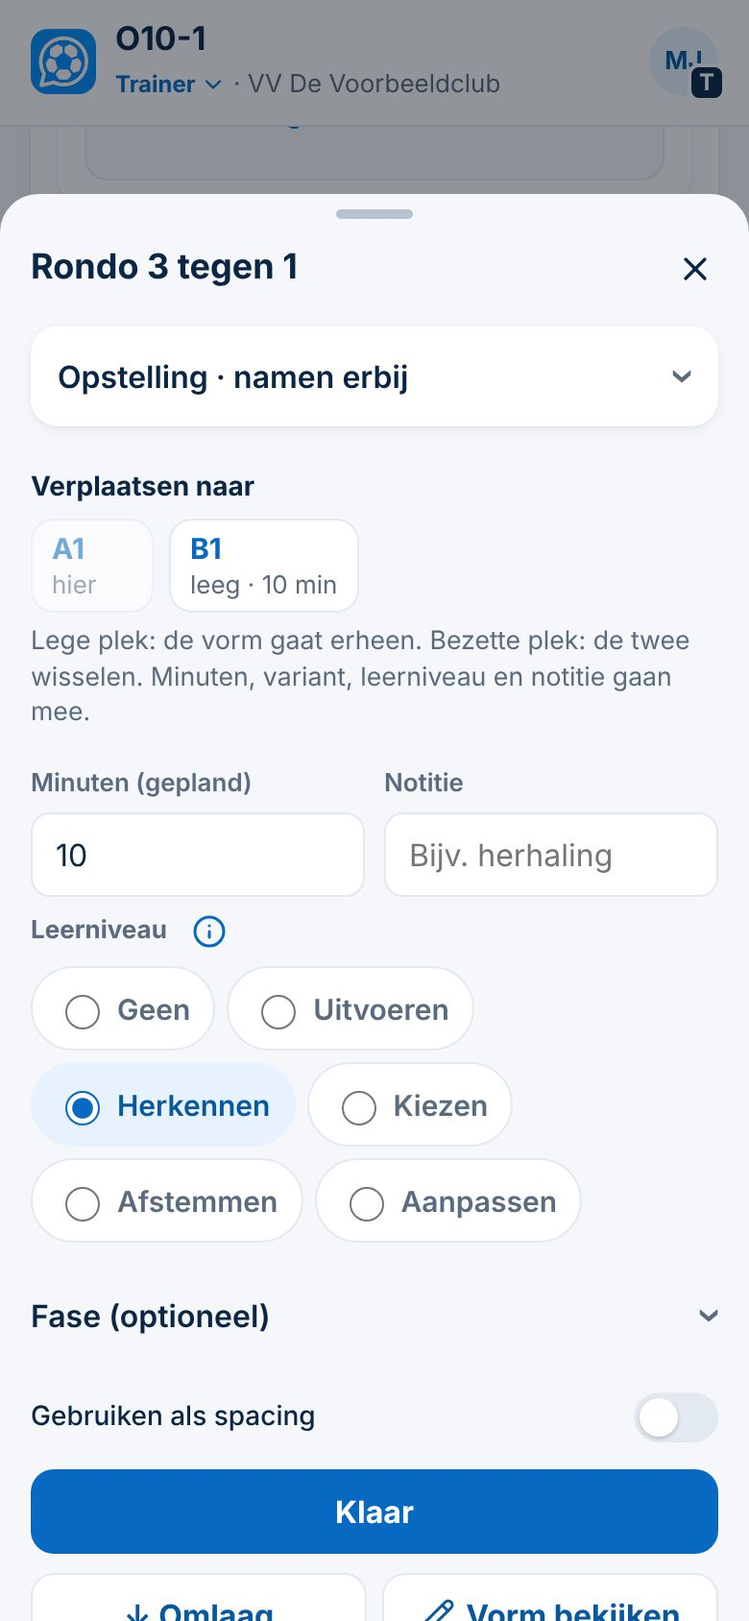
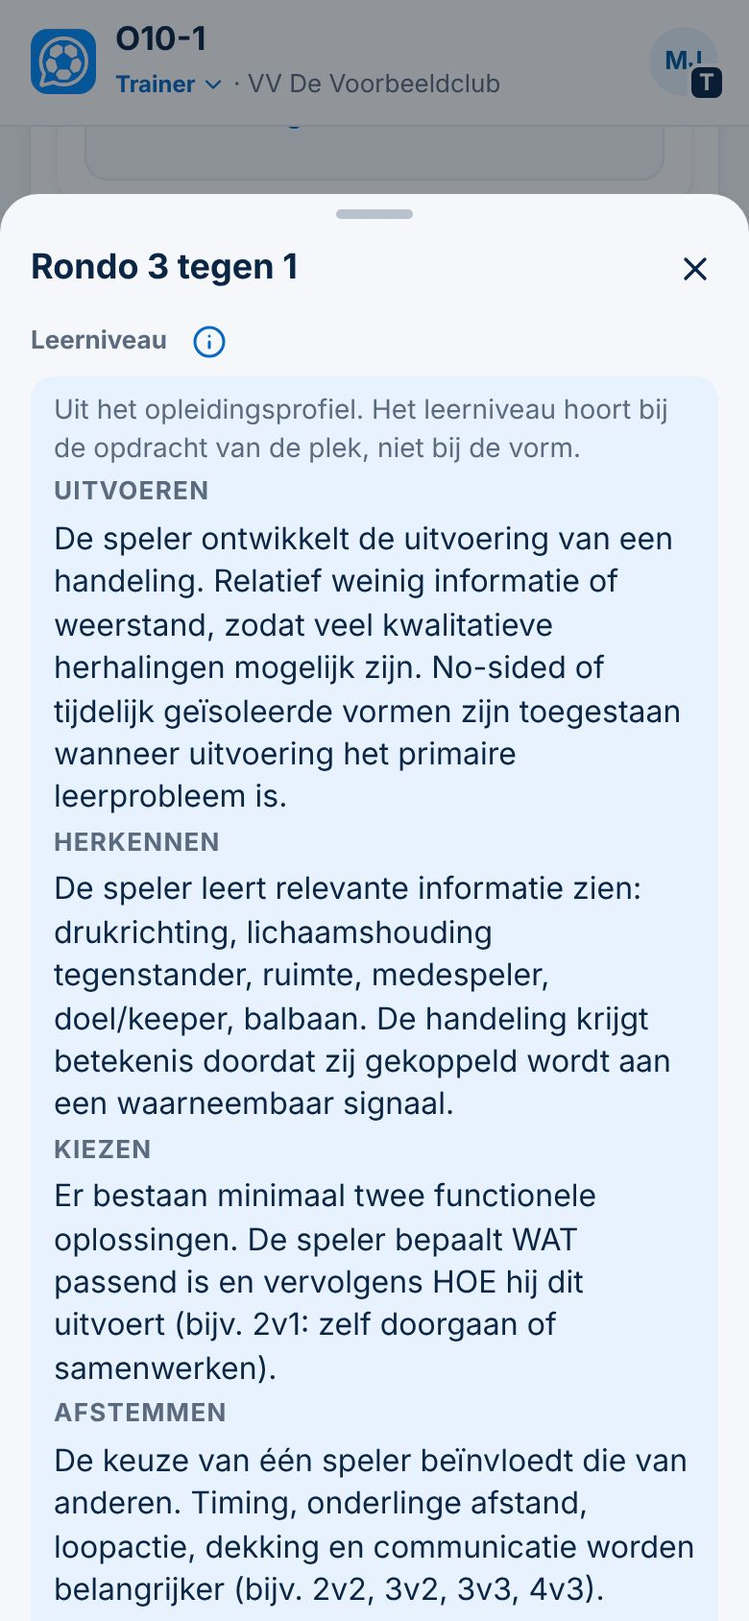
Besluit NNN: uitleg via ⓘ uit het opleidingsprofiel (I3)
Claude-Session: https://claude.ai/code/session_017jGF8mDYfDuBQb5FDVe2fK

Changed region(s): [[0.0308, 0.1848, 0.9846, 1.0], [0.8308, 0.3081, 0.8923, 0.3389]]

diff --git a/public/app/periodisering.js b/public/app/periodisering.js
@@ -97,22 +97,29 @@
     const r = (n, x) => (x ? `<dt>${n}</dt><dd>${esc(x)}</dd>` : '');
     CC.sheet('Oorspronkelijke planning', `<p class="zacht klein">Zoals geladen uit ${esc(o.bron || 'de periodisering')}. Bewaard op ${esc(D.kort(o.bewaard))}, toen je deze training voor het eerst aanpaste. Alleen ter informatie.</p>
       <dl class="antwoorden">${r('Titel', o.thema)}${r('Voetbalprobleem', pr ? `${pr.id.slice(3)} · ${pr.naam}` : m.probleemTekst)}${r('Dagthema', m.hoofdthema)}${r('Gereedschap A', T().ldNaam(S, (o.blokDoel || {}).A))}${r('Gereedschap B', T().ldNaam(S, (o.blokDoel || {}).B))}${r('Leerniveau', nv(S, m.niveaus))}${r('Leerroute', m.route)}${r('Gewenst gedrag', m.gedrag)}</dl>`); });
-  // Voorbeeld I3: ⓘ = de uitleg die al in het opleidingsprofiel staat (geen nieuwe invoer, geen tekst die al in beeld staat).
-  // Alleen als het profiel die uitleg heeft; anders geen knop.
+  // Besluit NNN (I3): ⓘ = de uitleg die al in het opleidingsprofiel staat (geen nieuwe invoer, geen kopie). Zonder tekst geen knop.
+  // Op een pagina opent de ⓘ een venster; in een venster (de plek) klapt de uitleg ter plekke open, zodat niets verloren gaat.
   const leerlijn = (S, id) => ((T().ond(S, 'leerlijnen') || {}).items || []).find((x) => x.id === id) || null;
-  const uitlegKnop = (S, soort, id, naam) => { const heeft = soort === 'niveaus' ? T().niveaus(S).some((x) => x.omschrijving) : soort === 'gs' ? !!(leerlijn(S, id) || {}).omschrijving : !!(probleem(S, id) || {}).definitie;
-    return heeft ? `<button type="button" class="icoonknop tr-uitleg" data-act="trUitleg" data-s="${soort}" data-id="${esc(id || '')}" aria-label="Uitleg: ${esc(naam)}">${icon('info')}</button>` : ''; };
-  CC.trUitlegKnop = uitlegKnop;
-  const lijst = (l) => (l || []).length ? `<ul>${l.map((x) => `<li>${esc(x)}</li>`).join('')}</ul>` : '';
-  CC.on('trUitleg', (el) => { const S = CC.S(); const s0 = el.dataset.s, id = el.dataset.id;
-    if (s0 === 'niveaus') { const l = T().niveaus(S); return CC.sheet('Leerniveaus', `<p class="zacht klein">Uit het opleidingsprofiel. Het leerniveau hoort bij de opdracht van de plek, niet bij de vorm.</p>${l.map((x) => `${h.sectie(x.naam)}<p>${esc(x.omschrijving || '')}</p>`).join('')}`); }
-    if (s0 === 'gs') { const g = leerlijn(S, id); if (!g) return; return CC.sheet(g.naam, `<p class="zacht klein">Gereedschap uit het opleidingsprofiel</p><p>${esc(g.omschrijving || '')}</p>
+  const heeftUitleg = (S, soort, id) => (soort === 'niveaus' ? T().niveaus(S).some((x) => x.omschrijving) : soort === 'gs' ? !!(leerlijn(S, id) || {}).omschrijving : !!(probleem(S, id) || {}).definitie);
+  const lijst = (l) => ((l || []).length ? `<ul>${l.map((x) => `<li>${esc(x)}</li>`).join('')}</ul>` : '');
+  const uitleg = (S, soort, id) => {
+    if (soort === 'niveaus') return { titel: 'Leerniveaus', html: `<p class="zacht klein">Uit het opleidingsprofiel. Het leerniveau hoort bij de opdracht van de plek, niet bij de vorm.</p>${T().niveaus(S).filter((x) => x.omschrijving).map((x) => `${h.sectie(esc(x.naam))}<p>${esc(x.omschrijving)}</p>`).join('')}` };
+    if (soort === 'gs') { const g = leerlijn(S, id); if (!g) return null;
+      return { titel: g.naam, html: `<p class="zacht klein">Gereedschap uit het opleidingsprofiel</p><p>${esc(g.omschrijving || '')}</p>
       ${g.spelersvraag ? `${h.sectie('Vraag voor de speler')}<p><b>${esc(g.spelersvraag)}</b></p>` : ''}${g.principe ? `${h.sectie('Principe')}<p>${esc(g.principe)}</p>` : ''}
-      ${(g.vaardigheden || []).length ? `${h.sectie('Vaardigheden')}<p>${esc(g.vaardigheden.map((v) => v.naam).join(' · '))}</p>` : ''}${g.technischeOnderbouw ? `<details class="uitklap"><summary>Technische onderbouwing</summary><p>${esc(g.technischeOnderbouw)}</p></details>` : ''}`); }
-    const pr = probleem(S, id); if (!pr) return;
-    CC.sheet(pr.naam, `<p class="zacht klein">Voetbalprobleem ${esc(pr.id.slice(3))} uit het opleidingsprofiel</p><p>${esc(pr.definitie || '')}</p>
+      ${(g.vaardigheden || []).length ? `${h.sectie('Vaardigheden')}<p>${esc(g.vaardigheden.map((v) => v.naam).join(' · '))}</p>` : ''}${g.technischeOnderbouw ? `<details class="uitklap"><summary>Technische onderbouwing</summary><p>${esc(g.technischeOnderbouw)}</p></details>` : ''}` }; }
+    const pr = probleem(S, id); if (!pr) return null;
+    const meer = (pr.keuzeWat || []).length || (pr.keuzeHoe || []).length || (pr.oplossingen || []).length || pr.complexiteit;
+    return { titel: pr.naam, html: `<p class="zacht klein">Voetbalprobleem ${esc(pr.id.slice(3))} uit het opleidingsprofiel</p><p>${esc(pr.definitie || '')}</p>
       ${pr.centraleVraag ? `${h.sectie('Centrale vraag')}<p><b>${esc(pr.centraleVraag)}</b></p>` : ''}${(pr.waarnemen || []).length ? `${h.sectie('Wat de speler waarneemt')}${lijst(pr.waarnemen)}` : ''}
-      ${(pr.keuzeWat || []).length || (pr.oplossingen || []).length || pr.complexiteit ? `<details class="uitklap"><summary>Keuzes, oplossingen en opbouw</summary>${(pr.keuzeWat || []).length ? `${h.sectie('Wat kan de speler kiezen?')}${lijst(pr.keuzeWat)}` : ''}${(pr.keuzeHoe || []).length ? `${h.sectie('Hoe voert hij het uit?')}${lijst(pr.keuzeHoe)}` : ''}${(pr.oplossingen || []).length ? `${h.sectie('Oplossingen')}${lijst(pr.oplossingen)}` : ''}${pr.complexiteit ? `${h.sectie('Opbouw')}<p>${esc(pr.complexiteit)}</p>` : ''}</details>` : ''}`); });
+      ${meer ? `<details class="uitklap"><summary>Keuzes, oplossingen en opbouw</summary>${(pr.keuzeWat || []).length ? `${h.sectie('Wat kan de speler kiezen?')}${lijst(pr.keuzeWat)}` : ''}${(pr.keuzeHoe || []).length ? `${h.sectie('Hoe voert hij het uit?')}${lijst(pr.keuzeHoe)}` : ''}${(pr.oplossingen || []).length ? `${h.sectie('Oplossingen')}${lijst(pr.oplossingen)}` : ''}${pr.complexiteit ? `${h.sectie('Opbouw')}<p>${esc(pr.complexiteit)}</p>` : ''}</details>` : ''}` }; };
+  const uitlegKnop = (S, soort, id, naam, hier) => (heeftUitleg(S, soort, id)
+    ? `<button type="button" class="icoonknop tr-uitleg" data-act="${hier ? 'trUitlegHier' : 'trUitleg'}" data-s="${soort}" data-id="${esc(id || '')}" aria-label="Uitleg: ${esc(naam)}"${hier ? ' aria-expanded="false"' : ''}>${icon('info')}</button>` : '');
+  CC.trUitlegKnop = uitlegKnop;
+  // Ter plekke: het blok staat direct na de knop (in de legend) als eerste element na de legend
+  CC.trUitlegHierBlok = (S, soort, id) => (heeftUitleg(S, soort, id) ? `<div class="tr-uitleg-hier" hidden>${(uitleg(S, soort, id) || {}).html || ''}</div>` : '');
+  CC.on('trUitleg', (el) => { const u = uitleg(CC.S(), el.dataset.s, el.dataset.id); if (u) CC.sheet(u.titel, u.html); });
+  CC.on('trUitlegHier', (el) => { const f = el.closest('fieldset'); const b = f && f.querySelector('.tr-uitleg-hier'); if (!b) return; b.hidden = !b.hidden; el.setAttribute('aria-expanded', String(!b.hidden)); });
   CC.trMethodiek = (S, p, a, tel, zonderMee) => { if (!p || p.week) return ''; const pa = actief(S); if (pa) CC.trBorgOrigineel(S);
     const m = eigenM(p), wv = weekVoorstelVan(S, p, a), w = a.datum ? weekPlan(S, p.teamId || a.teamId, a.datum) : null; const iv = inVormen(S, p);
     const wbox = (x) => (x ? `<div class="tr-wv">${lab('week')}<span class="tr-wvt">${x}</span></div>` : '');

diff --git a/tests/uitleg.spec.js b/tests/uitleg.spec.js
@@ -1,0 +1,80 @@
+// ClubComm — Besluit NNN (I3): ⓘ opent de uitleg uit het opleidingsprofiel (voetbalprobleem, gereedschap, leerniveaus).
+const { test, expect } = require('@playwright/test');
+const fs = require('fs');
+const { volgFouten, controleer } = require('./hulp');
+const PROFIEL = JSON.parse(fs.readFileSync('supabase/profielen/dcg.json', 'utf8'));
+
+// Demo (verzonnen namen) met het DCG-profiel als voorbeeldprofiel; wijzig(profiel) past het profiel aan of haalt het weg
+const opzet = async (page, wijzig) => {
+  await page.setViewportSize({ width: 390, height: 844 });
+  await page.goto('/?demo'); await page.evaluate(() => localStorage.clear()); await page.goto('/?demo');
+  await page.locator('[data-act="demoLogin"][data-pid]').nth(1).click(); await page.locator('[data-act="magischeLink"]').click();
+  await expect(page.locator('nav.nav')).toBeVisible();
+  await page.evaluate(({ PROFIEL, wijzig }) => { const S = CC.S(); const ik = CC.me().id; S.club.modules.training = true;
+    const pf = JSON.parse(JSON.stringify(PROFIEL)); if (wijzig === 'zonderPassen') pf.onderdelen.leerlijnen.items.find((x) => x.id === 'll-passen').omschrijving = '';
+    S.profielen = wijzig === 'geen' ? {} : { [S.club.id]: { ...pf, naam: 'Opleidingsprofiel (test)' } };
+    CC.wisselRol(CC.me().rollen.findIndex((r) => r.rol === 'trainer'));
+    S.vormen = [{ id: 'v1', eigenaar: ik, naam: 'Rondo 3 tegen 1', type: 'rondo', spelersMin: 4, spelersMax: 8, duur: 10, aantal: { aanval: 3, verdediging: 1 }, koppelingen: {}, varianten: [], aantallen: [] }];
+    const tid = CC.teamId(); const a = S.acts.filter((x) => x.teamId === tid && x.soort === 'training' && x.datum >= CC.date.vandaag()).sort((x, y) => x.datum.localeCompare(y.datum))[0];
+    S.trainingsplannen = [{ id: 'tp1', actId: a.id, teamId: tid, datum: a.datum, eigenaar: ik, thema: 'Bal behouden onder druk', leerdoelen: [], blokDoel: { A: 'll-aannemen', B: 'll-passen' },
+      methodiek: { probleem: 'vp-1', niveaus: ['ln-herkennen', 'ln-kiezen'], gedrag: 'Kijkt vóór de aanname over de schouder' },
+      onderdelen: [{ id: 'o1', blok: 'A1', vormId: 'v1', min: 10, niveau: 'ln-herkennen' }] }];
+    (CC.ui.seg = CC.ui.seg || {}).aanwAct = a.id; CC.save(); CC.render(); }, { PROFIEL, wijzig });
+  await page.locator('nav.nav button[data-tab="aanwezigheid"]').click(); await page.evaluate(() => { CC.ui.seg.trSeg = 'plannen'; CC.render(); });
+  const waarom = page.locator('details:has(> summary:text-matches("^Waarom deze training"))').first();
+  if (await waarom.count()) await waarom.locator('> summary').click();
+  return waarom;
+};
+const tekst = (sleutel, id) => PROFIEL.onderdelen[sleutel].items.find((x) => x.id === id);
+
+test('ⓘ bij voetbalprobleem, gereedschap en leerniveaus opent de tekst uit het profiel', { tag: ['@training', '@schermen'] }, async ({ page }) => {
+  const fouten = volgFouten(page);
+  const waarom = await opzet(page);
+  await expect(waarom.locator('.tr-uitleg')).toHaveCount(4); // Wat, A, B, Niveau
+  const vp = tekst('voetbalproblemen', 'vp-1');
+  await waarom.locator('.tr-uitleg[data-s="pr"]').click();
+  await expect(page.locator('#sheet h2')).toHaveText(vp.naam);
+  await expect(page.locator('#sheet')).toContainText(vp.centraleVraag);
+  await expect(page.locator('#sheet')).toContainText(vp.waarnemen[0]);
+  await expect(page.locator('#sheet details.uitklap')).not.toHaveAttribute('open', '');
+  await page.evaluate(() => CC.closeSheet());
+  const ll = tekst('leerlijnen', 'll-passen');
+  await waarom.locator('.tr-uitleg[data-s="gs"][data-id="ll-passen"]').click();
+  await expect(page.locator('#sheet h2')).toHaveText(ll.naam);
+  await expect(page.locator('#sheet')).toContainText(ll.spelersvraag);
+  await page.evaluate(() => CC.closeSheet());
+  await waarom.locator('.tr-uitleg[data-s="niveaus"]').click();
+  for (const n of PROFIEL.onderdelen.leerniveaus.items) await expect(page.locator('#sheet')).toContainText(n.naam);
+  await page.evaluate(() => CC.closeSheet());
+  // Tikvlak 44 × 44 en geen horizontaal scrollen
+  const box = await waarom.locator('.tr-uitleg').first().boundingBox();
+  expect([Math.round(box.width), Math.round(box.height)]).toEqual([44, 44]);
+  expect(await page.evaluate(() => document.documentElement.scrollWidth)).toBeLessThanOrEqual(390);
+  await controleer(page, fouten, 'uitleg trainingskaart');
+});
+
+test('In het venster van een plek klapt de uitleg ter plekke open; ingevulde minuten blijven staan', { tag: ['@training'] }, async ({ page }) => {
+  const fouten = volgFouten(page);
+  await opzet(page);
+  await page.locator('.tr-rij', { hasText: 'Rondo' }).first().click();
+  await expect(page.locator('#sheet h2')).toHaveText('Rondo 3 tegen 1');
+  await page.fill('#on-m', '12');
+  const knop = page.locator('#sheet legend .tr-uitleg'); const blok = page.locator('#sheet .tr-uitleg-hier');
+  await expect(blok).toBeHidden(); await knop.click();
+  await expect(blok).toBeVisible(); await expect(knop).toHaveAttribute('aria-expanded', 'true');
+  await expect(blok).toContainText(tekst('leerniveaus', 'ln-kiezen').omschrijving.slice(0, 40));
+  await expect(page.locator('#sheet h2')).toHaveText('Rondo 3 tegen 1');
+  await expect(page.locator('#on-m')).toHaveValue('12');
+  await page.waitForTimeout(1600); await knop.click(); await expect(blok).toBeHidden();
+  await controleer(page, fouten, 'uitleg plek');
+});
+
+test('Geen ⓘ zonder tekst in het profiel, en niets nieuws zonder profiel', { tag: ['@training'] }, async ({ page }) => {
+  const fouten = volgFouten(page);
+  let waarom = await opzet(page, 'zonderPassen');
+  await expect(waarom.locator('.tr-uitleg')).toHaveCount(3);
+  await expect(waarom.locator('.tr-uitleg[data-id="ll-passen"]')).toHaveCount(0);
+  waarom = await opzet(page, 'geen');
+  await expect(page.locator('.tr-uitleg')).toHaveCount(0);
+  await controleer(page, fouten, 'uitleg zonder profiel');
+});

diff --git a/public/app/training.js b/public/app/training.js
@@ -485,7 +485,7 @@
       <div class="twee"><div><label for="on-m">Minuten (gepland)</label><input id="on-m" name="min" type="number" inputmode="numeric" min="0" max="90" value="${Number(o.min) || 0}"></div>
         <div><label for="on-t">Notitie</label><input id="on-t" name="notitie" value="${esc(o.notitie || '')}" placeholder="Bijv. herhaling"></div></div>
       ${v && (varianten(v).length || varVan(v, o)) ? `<fieldset class="tr-chips"><legend>Welke uitvoering vandaag?</legend><label class="tr-chip"><input type="radio" name="variant" value="" ${varVan(v, o) ? '' : 'checked'}><span>Basis</span></label>${(v.varianten || []).filter((x) => !x.weg || x === varVan(v, o)).map((x) => `<label class="tr-chip"><input type="radio" name="variant" value="${esc(varCode(x))}" ${x === varVan(v, o) ? 'checked' : ''}><span>${esc(varNaam(v, x))}</span></label>`).join('')}</fieldset>` : ''}
-      ${!o.spacing && niveaus(S).length ? `<fieldset class="tr-chips"><legend>Leerniveau${!o.niveau && o.niveauVoorstel ? ` (voorstel: ${esc(niveauNaam(S, o.niveauVoorstel))})` : ''}${CC.trUitlegKnop ? CC.trUitlegKnop(S, 'niveaus', '', 'leerniveaus') : ''}</legend><label class="tr-chip"><input type="radio" name="niveau" value="" ${o.niveau ? '' : 'checked'}><span>${o.niveauVoorstel ? 'Voorstel' : 'Geen'}</span></label>${niveaus(S).map((x) => `<label class="tr-chip"><input type="radio" name="niveau" value="${esc(x.id)}" ${o.niveau === x.id ? 'checked' : ''}><span>${esc(x.naam)}</span></label>`).join('')}</fieldset>` : ''}
+      ${!o.spacing && niveaus(S).length ? `<fieldset class="tr-chips"><legend>Leerniveau${!o.niveau && o.niveauVoorstel ? ` (voorstel: ${esc(niveauNaam(S, o.niveauVoorstel))})` : ''}${CC.trUitlegKnop ? CC.trUitlegKnop(S, 'niveaus', '', 'leerniveaus', true) : ''}</legend>${CC.trUitlegHierBlok ? CC.trUitlegHierBlok(S, 'niveaus', '') : ''}<label class="tr-chip"><input type="radio" name="niveau" value="" ${o.niveau ? '' : 'checked'}><span>${o.niveauVoorstel ? 'Voorstel' : 'Geen'}</span></label>${niveaus(S).map((x) => `<label class="tr-chip"><input type="radio" name="niveau" value="${esc(x.id)}" ${o.niveau === x.id ? 'checked' : ''}><span>${esc(x.naam)}</span></label>`).join('')}</fieldset>` : ''}
       ${!o.spacing && fs.length && niveaus(S).length ? '<details class="uitklap tr-precies"><summary>Fase (optioneel)</summary>' : ''}${!o.spacing && fs.length ? `<fieldset class="tr-chips"><legend>Fase${f && !f.vast ? ` (voorstel: ${esc(faseNaam(S, f.id))})` : ''}</legend><label class="tr-chip"><input type="radio" name="fase" value="" ${o.fase ? '' : 'checked'}><span>${f && !f.vast ? 'Voorstel' : 'Geen'}</span></label>${fs.map((x) => `<label class="tr-chip"><input type="radio" name="fase" value="${esc(x.id)}" ${o.fase === x.id ? 'checked' : ''}><span>${esc(x.naam)}</span></label>`).join('')}</fieldset>` : ''}${!o.spacing && fs.length && niveaus(S).length ? '</details>' : ''}
       ${v ? `<label class="schakel"><span>Gebruiken als spacing</span><input type="checkbox" name="spacing" ${o.spacing ? 'checked' : ''}><i></i></label>` : ''}
       <button class="knop vol">Klaar</button></form>

diff --git a/tests/trainingskaart.spec.js b/tests/trainingskaart.spec.js
@@ -154,7 +154,7 @@ test('trainingskaart: oorspronkelijke planning bij de eerste aanpassing van een 
   expect(vr.methodiek.gedrag).toBe('Eerste contact weg van de druk');
   await expect(kaart(page).locator('.tr-stand')).toHaveText('Concept uit de periodisering · door jou aangepast');
   await expect(kaart(page).locator('.tr-gedrag .tr-her')).toHaveText('Eigen'); // aangepast
-  await expect(kaart(page).locator('.tr-niv + .tr-her')).toHaveText('Periodisering'); // niet aangepast
+  await expect(kaart(page).locator('.tr-niv ~ .tr-her')).toHaveText('Periodisering'); // niet aangepast
   await page.locator('.tr-tkaart [data-act="trOrigineel"]').click();
   await expect(page.locator('#sheet')).toContainText('Kijkt vóór ontvangst');
   await page.evaluate(() => CC.closeSheet());

diff --git a/public/app/app.css b/public/app/app.css
@@ -1125,6 +1125,8 @@ button.tr-gkop { cursor: pointer; } .tr-gkop.tr-A { color: #0869c2; } .tr-gkop.t
 .tr-vandaag p { margin: 4px 0 0; }
 .tr-basis { margin-top: 8px; }
 
-/* Voorbeeld I3: ⓘ naast een begrip uit het profiel (tikvlak 44 px, klein icoon) */
+/* Besluit NNN (I3): ⓘ naast een begrip uit het profiel (tikvlak 44 px, klein icoon); in een venster klapt de uitleg ter plekke open */
 .tr-uitleg { width: 44px; height: 44px; min-height: 44px; margin: -10px -6px -10px 0; vertical-align: middle; color: var(--blauw); }
 .tr-uitleg svg { width: 18px; height: 18px; }
+.tr-uitleg-hier { width: 100%; background: var(--blauw-l); border-radius: 12px; padding: 4px 12px 10px; margin: 0 0 8px; }
+.tr-uitleg-hier p { margin: 4px 0 0; }

diff --git a/docs/kaart.md b/docs/kaart.md
@@ -14,7 +14,7 @@
 | **Taken, vervoer, meehelpen, materiaal** | `taken.js`, `meehelpen.js`, `materiaal.js`, `waardering.js` | 17, 25, 28, 31, 64, 95, 98 | `taken:\|chauffeur` |
 | **Ontwikkelgesprekken en beoordeling** | `beoordeling.js`, `gesprek.js` | 23, 65–72, 101 | `spelerskaart` |
 | **Trainers begeleiden (HO, TC)** | `trainers.js` (ook de stappen per trainer en *Traject starten*, Besluit 177), `begeleiding.js`, `howeek.js` (week achter **Week**, compacte lijst), `startscherm.js` (Home van begeleider en trainer, Besluit 166), `lijstdetail.js` (laptop: lijst en detail naast elkaar, Besluit 171), tijdlijn in `trainers.js` (Besluit 168), `hjohome.js`, `hjofilter.js` (`CC.werkgebied` in `hjo.js`), `meekijken.js` | 42, 97, 99, 100, 129, 134, 140, 143, 146, 154, 159, 166 | `trainers begeleiden\|begeleidingsmoment\|technisch coördinator\|HO-Home\|bouwen\|pakket Alleen\|eigen reflectie\|week van de begeleider` + `tests/ho-week.spec.js` + `tests/startscherm.spec.js` + `tests/ho-stappen.spec.js` + `npm run test:veilig` |
-| **Trainingsmodule** | `training.js` (kiezer, Voorbereiden, Op het veld, Vormen; in de code `plannen`, `week`, `vormen`; Vormen op de laptop lijst links en de vorm rechts, Besluit 174), `periodisering.js` (methodiek, Seizoen; in de code `lijn`), `vormtypes.js` · functiekaarten `docs/handleiding/training-voorbereiden.md` en `vormenbank.md` | 121, 128, 130–135, 137, 138, 139, 141, 142, 144, 145, 147, 163, 164, 165, 167, 169, 172, 173, 174, 175, 176, 179, 183, 150, 155 | `trainingsmodule\|oefenvorm\|trainingskaart\|vastleggen\|korte evaluatie\|labels` + `tests/kiezer.spec.js`, `tests/trainingskaart.spec.js`, `tests/vastleggen.spec.js`, `tests/plek-weghalen.spec.js`, `tests/oefenvorm-velden.spec.js`, `tests/week-vorm.spec.js`, `tests/plannen-rustiger.spec.js`, `tests/wie-speelt-waar.spec.js`, `tests/varianten.spec.js`, `tests/keepers-tellen.spec.js`, `tests/korte-evaluatie.spec.js` |
+| **Trainingsmodule** | `training.js` (kiezer, Voorbereiden, Op het veld, Vormen; in de code `plannen`, `week`, `vormen`; Vormen op de laptop lijst links en de vorm rechts, Besluit 174), `periodisering.js` (methodiek, Seizoen; in de code `lijn`), `vormtypes.js` · functiekaarten `docs/handleiding/training-voorbereiden.md` en `vormenbank.md` | 121, 128, 130–135, 137, 138, 139, 141, 142, 144, 145, 147, 163, 164, 165, 167, 169, 172, 173, 174, 175, 176, 179, 183, NNN, 150, 155 | `trainingsmodule\|oefenvorm\|trainingskaart\|vastleggen\|korte evaluatie\|labels` + `tests/kiezer.spec.js`, `tests/trainingskaart.spec.js`, `tests/vastleggen.spec.js`, `tests/plek-weghalen.spec.js`, `tests/oefenvorm-velden.spec.js`, `tests/week-vorm.spec.js`, `tests/plannen-rustiger.spec.js`, `tests/wie-speelt-waar.spec.js`, `tests/varianten.spec.js`, `tests/uitleg.spec.js`, `tests/keepers-tellen.spec.js`, `tests/korte-evaluatie.spec.js` |
 | **Opleidingsprofielen** | `opslag.js` (leest `S.profielen`), `training.js` (`profiel`, `ond`); bron: `supabase/profielen/` | 121, 123, 133 | `opleidingsprofiel\|trainingsmodule` |
 | **Tekentool** | `tekentool.js` + `.css`, `tekenen.html` · functiekaart `docs/handleiding/tekentool.md` | 124–127, 148 (rugnummers), 152 (menu sluiten), 153 (veldlijnen), 156 (paneel Spelers), 172 (paneel blijft open bij een andere speler), 157 (gekanteld), 158 (Kopie en Weg in het paneel, tikvlak kleuren, tip), 160 (tikvlak 44 px), 162 (hoedjes 70% van een speler), 161 (trainerspilot; PDF snelstart uit deze kaart) | `tekentool` (ook `tests/tekentool-nummering.spec.js`, `tests/trainerspilot.spec.js`, `tests/tekentool-hoedjes.spec.js`) |
 | **Demo en rondleiding** | `demo.js` (`STAPPEN`), `data.js` (democlub) | 89, 114 | `rondleiding\|uitnodiging\|demo:\|elke stap` |
@@ -56,7 +56,7 @@
 - `opstelling.js`: speelvorm per team `team.speelCat` (`M.wedCat`); keuze van de staf in `S.teamKeuze`.
 - `adres.js`: adres via PDOK (`data-adres`). `push.js`: pushmeldingen (Besluit 53). `onderhoud.js`: foutregistratie en zelf verversen (`versie.json` uit `versie-maken.js`, Besluit 63).
 - **Opleidingsprofielen (Besluit 123):** methodiek als gegevens, niet in de code. Opbouw en KNVB-standaard: `supabase/profielen/`; het DCG-profiel staat in de database (soort `profiel`); de app leest ze in `S.profielen` en schrijft ze nooit terug.
-- **Trainingsmodule:** eigen vormen (`S.vormen`) en trainingen (`S.trainingsplannen`, scope `eigen`); tabblad *Training* (`CC.trainingTab`) met Op het veld · Voorbereiden · Vormen · Seizoen (Besluit 141, namen 176; in de code `week`, `plannen`, `vormen`, `lijn`); opstelling per kleur onder de tekening, tikvlakken via `DrawTool.staticSvg(json, { tik })` (Besluit 175, 179); `periodisering.js` alleen als het profiel voetbalproblemen en leerniveaus heeft. **Eén oefenvormkiezer voor elke club** (Besluit 139: `advies`, `kvHtml`; *Ongedaan maken* via `CC.toast` met knop; regressietests in `tests/kiezer.spec.js`). **Trainingskaart** (Besluit 144): `CC.trMethodiek` in `periodisering.js`, vijf regels met herkomst, weekvoorstel apart (`CC.trWeekVoorstel`), `CC.trAfspraak`, momentopname `origineel` via `CC.trBorgOrigineel` (aangeroepen in `live.js`). Tekentool zit in `index.html`; los testscherm `/tekenen`.
+- **Trainingsmodule:** eigen vormen (`S.vormen`) en trainingen (`S.trainingsplannen`, scope `eigen`); tabblad *Training* (`CC.trainingTab`) met Op het veld · Voorbereiden · Vormen · Seizoen (Besluit 141, namen 176; in de code `week`, `plannen`, `vormen`, `lijn`); opstelling per kleur onder de tekening, tikvlakken via `DrawTool.staticSvg(json, { tik })` (Besluit 175, 179); `periodisering.js` alleen als het profiel voetbalproblemen en leerniveaus heeft. **Eén oefenvormkiezer voor elke club** (Besluit 139: `advies`, `kvHtml`; *Ongedaan maken* via `CC.toast` met knop; regressietests in `tests/kiezer.spec.js`). **Trainingskaart** (Besluit 144): `CC.trMethodiek` in `periodisering.js`, vijf regels met herkomst, weekvoorstel apart (`CC.trWeekVoorstel`), `CC.trAfspraak`, momentopname `origineel` via `CC.trBorgOrigineel` (aangeroepen in `live.js`); ⓘ-uitleg uit het profiel via `CC.trUitlegKnop` en `CC.trUitlegHierBlok` (Besluit NNN). Tekentool zit in `index.html`; los testscherm `/tekenen`.
 - `evaluatie.html` (`/evaluatie`): evaluatieformulier coach, alleen op het toestel (Besluit 93).
 - **Demo:** online alleen `mijnclubcomm.nl/demo`, **alleen op uitnodiging** (`demo.js`, tabel `demo_toegang`, Besluit 89); `?demo` alleen lokaal. Accounts: Sanne (ouder), Mark (trainer + ouder), Linda (teamleider + ouder), Peter (HJO + beheerder), Esther (coördinator). Democlub "VV De Voorbeeldclub": **alleen verzonnen namen**. Nieuw of gewijzigd scherm: kijk of `STAPPEN` in `demo.js` nog klopt.
 

diff --git a/docs/besluiten.md b/docs/besluiten.md
@@ -21,6 +21,7 @@ Laatst bijgewerkt: 11 november 2026 (t/m Besluit 182)
 
 | Nr | Spoor | Onderwerp | Status | Herzien |
 |---|---|---|---|---|
+| NNN | 3 | Uitleg via ⓘ uit het opleidingsprofiel: in de trainingskaart naast het voetbalprobleem, gereedschap A en B en de leerniveaus, en naast *Leerniveau* in het venster van een plek (daar klapt de uitleg ter plekke open). De tekst komt alleen uit het profiel: geen invoer, geen kopie; zonder tekst geen ⓘ. Niet bij filters en keuzes | ✅ geldt | |
 | 183 | 3 | Varianten zonder verschuiven, en de variant van vandaag op het veld: een variant heeft een **vaste code** en een plek in een training bewaart die code (niet meer de plaats in de lijst); een plek met een volgnummer van vóór dit besluit blijft leesbaar en krijgt bij opslaan de code. **Weghalen = verbergen**: niet meer te kiezen voor nieuwe trainingen, wel zichtbaar waar hij al gekozen was (*niet meer in gebruik*). Geopend vanuit een training met een variant: bovenaan *Vandaag: …* met wat anders is en de tekening van de variant (of de basis als de variant geen eigen tekening heeft), de basisvorm ingeklapt; ook in het tekeningetje van de regel en op de print. Keuze in het venster van de plek: *Welke uitvoering vandaag?*. Geen migratie, geen omzetscript (productie 17-11: 0 plekken met een variant), rechten ongewijzigd. Bekend risico H5 blijft: de inhoud en tekening van een vorm of variant aanpassen verandert ook wat een gegeven training toont | ✅ geldt | |
 | 181 | 3 | Wedstrijd bijhouden zonder iets kwijt te raken: (1) de timekeeper kan via de app echt opslaan (migratie 035: de bewaker weigerde elke upsert van een niet-stafslid, ook als de wedstrijd al bestond); (2) doelpunten en uitslag ook als reservekopie op de telefoon, teruggezet als verversen ze wegneemt; (3) op het scorebord *Opgeslagen* of *Nog niet opgeslagen · staat veilig op deze telefoon*; (4) het scherm blijft aan zolang het scorebord van een lopende wedstrijd open staat; (5) wie de uitslag niet mag opslaan, stuurt geen uitslagbericht: dat gaat bij *Overnemen* door de trainer | ✅ geldt |  |
 | 182 | 3 | Wedstrijdarchief: het tabblad Wedstrijd heeft *Vandaag · Gespeeld · Seizoen*; onder *Gespeeld* per wedstrijd de uitslag (doelpunten met minuut), de basis op positie, de wissels (▲ erin, ▼ eruit) en voor de trainer de minuten; staf past basis, wissels en doelpunten achteraf aan en de seizoensminuten worden opnieuw uitgerekend zonder dubbel tellen | ✅ geldt |  |
@@ -718,6 +719,25 @@ Doel: de HJO voert niet elke training in; het werk ligt waar het hoort.
 
 ### Vuistregel voor nieuwe ideeën
 Een idee komt in de app als het (1) helpt bij monitoren, signaleren of oplossen, (2) duidelijk maakt wie het doet, (3) de ouder geen extra werk kost en (4) klein is of als module aan/uit kan. Anders gaat het naar "Later / ideeën".
+
+---
+
+## Besluit NNN — Uitleg via ⓘ uit het opleidingsprofiel (Spoor 3, maat M)
+> Audit `docs/onderzoek/vormenbank-audit/README.md` (I3). Onderzoek en voorbeelden op 390 px: `docs/onderzoek/uitleg-i3/voorstel.md`. Akkoord van de initiatiefnemer 20-11 (*"akkoord, bouw I3 zoals B"*). Vult Besluit 144 (trainingskaart) aan.
+
+**Waarom.** Het opleidingsprofiel beschrijft wat een leerniveau, een gereedschap en een voetbalprobleem betekenen, maar de app liet alleen de namen zien. De trainer las *Kiezen* of *Aannemen en meenemen* zonder te kunnen nalezen wat ermee bedoeld wordt.
+
+**Wat.**
+1. **Vier plekken, alleen waar je leest:** in de trainingskaart (*Waarom deze training*) naast het voetbalprobleem (Wat), naast gereedschap A en B (Welke) en één ⓘ voor de leerniveaus samen (Niveau); en naast de kop *Leerniveau* in het venster van een plek. Niet bij filters en keuzes (Principe 10).
+2. **Inhoud uit het profiel:** voetbalprobleem = definitie, centrale vraag, *wat de speler waarneemt*, ingeklapt keuzes, oplossingen en opbouw; gereedschap = omschrijving, vraag voor de speler, principe, vaardigheden, ingeklapt de technische onderbouwing; leerniveaus = alle niveaus met hun omschrijving.
+3. **Op een pagina** opent de ⓘ een venster. **In een venster** (de plek) klapt de uitleg ter plekke open en weer dicht, zodat wat je invulde blijft staan.
+4. **Geen tekst, geen ⓘ.** Zonder profiel of zonder omschrijving bij dat begrip staat er geen knop.
+
+**Niet gedaan.** Geen nieuwe velden of invoer, geen kopie van de tekst (verandert het profiel, dan verandert de uitleg mee). Geen ⓘ bij filters, chips of de termen (*jagen*, *lokken*): de termen pas als Spoor 1 ze afmaakt; dat is een profielwijziging met eigen akkoord.
+
+**Privacy en gegevens.** Geen persoonsgegevens; het profiel wordt alleen gelezen. Geen migratie, rechten ongewijzigd.
+
+**Getest:** `tests/uitleg.spec.js` (3 tests): de vier ⓘ openen de juiste tekst, tikvlak 44 × 44 en 390 px breed; in het venster van een plek klapt de uitleg open zonder dat ingevulde minuten verdwijnen; geen ⓘ zonder omschrijving en geen enkele zonder profiel.
 
 ---
 

diff --git a/docs/onderzoek/uitleg-i3/voorstel.md b/docs/onderzoek/uitleg-i3/voorstel.md
@@ -1,6 +1,6 @@
 # Voorstel I3 — uitleg via ⓘ (Spoor 3, 18-11-2026)
 
-*Onderzoek met een werkend voorbeeld. Er is **niets gepubliceerd**, de database en de opleidingsprofielen zijn niet gewijzigd. Het voorbeeld staat op de branch `voorbeeld/i3-uitleg` (niet in `main`). De schermen komen uit dat voorbeeld, op 390 px, in de demo met verzonnen gegevens en het DCG-profiel als voorbeeldprofiel.*
+*Onderzoek met een werkend voorbeeld. Akkoord op B (20-11); gebouwd als Besluit NNN. De database en de opleidingsprofielen zijn niet gewijzigd. De schermen komen uit dat voorbeeld, op 390 px, in de demo met verzonnen gegevens en het DCG-profiel als voorbeeldprofiel.*
 
 **Opdracht (16-11).** *"Onderzoek hoe we de bestaande uitleg van leerniveaus, gereedschappen en voetbalproblemen kunnen openen via ⓘ, zonder nieuwe invoervelden of dubbele teksten."* Achtergrond: `docs/onderzoek/vormenbank-audit/README.md`, bevinding I3.
 
@@ -48,6 +48,7 @@ Alleen tekst die al in het profiel staat. Bovenaan kort waar de tekst vandaan ko
 - **Voetbalprobleem:** de definitie, de centrale vraag en *Wat de speler waarneemt*. Ingeklapt: *Keuzes, oplossingen en opbouw*.
 - **Gereedschap:** de omschrijving, de vraag voor de speler, het principe en de vaardigheden. Ingeklapt: *Technische onderbouwing*.
 - **Leerniveaus:** alle vijf onder elkaar, met de zin *Het leerniveau hoort bij de opdracht van de plek, niet bij de vorm.* Zo zie je ze in hun volgorde en hoef je niet vijf keer te tikken.
+- **In het venster van een plek** opent de ⓘ geen nieuw venster (dan zou wat je invulde verdwijnen), maar klapt de uitleg ter plekke open onder *Leerniveau*. Nog een tik klapt hem dicht.
 
 ![Uitleg van een voetbalprobleem](2-uitleg-voetbalprobleem.jpg) ![Uitleg van een gereedschap](3-uitleg-gereedschap.jpg)
 
